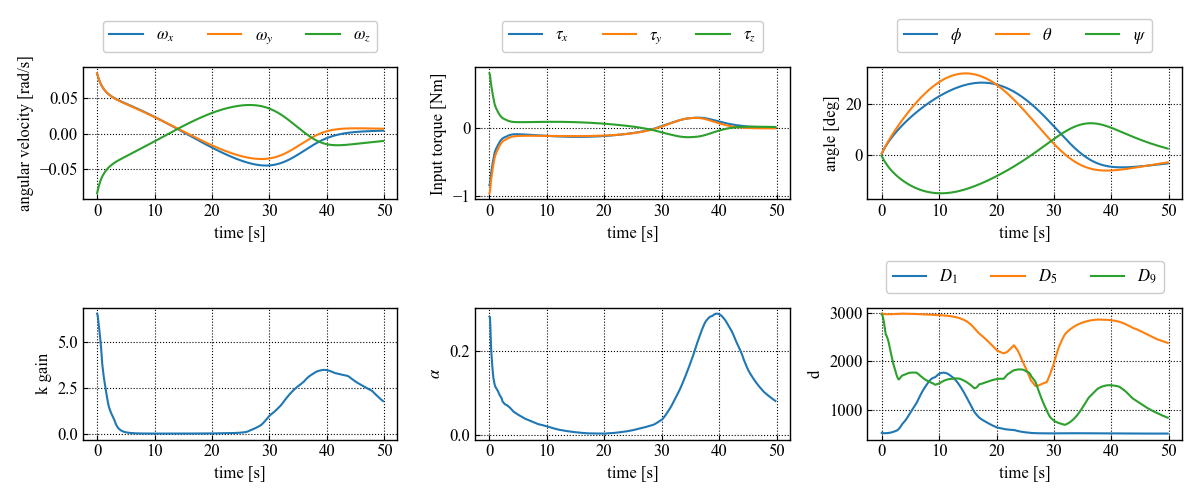
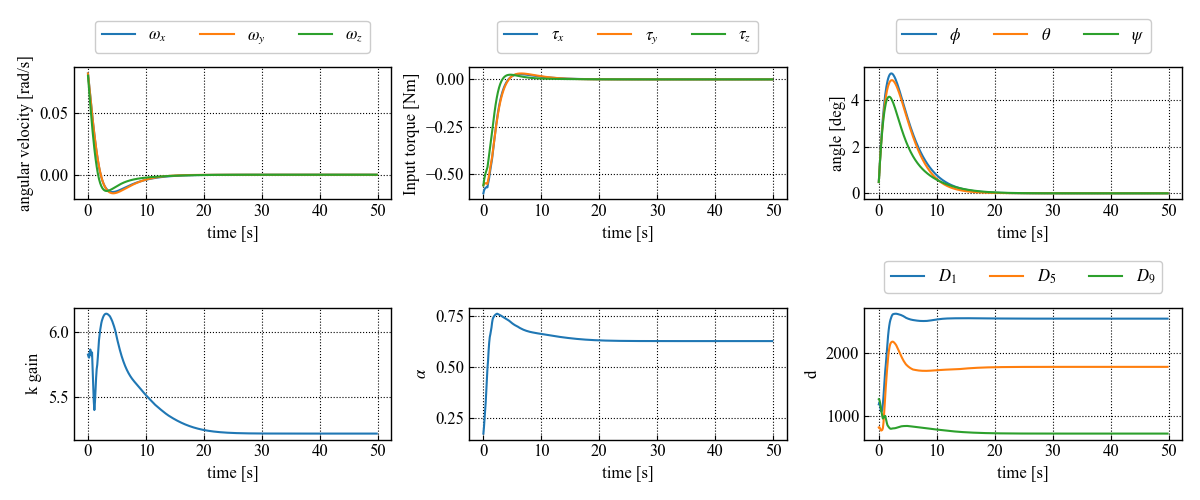
UPDATE: change reward

diff --git a/sac/environment.py b/sac/environment.py
@@ -147,9 +147,9 @@ class SatelliteContinuousEnv(gym.Env):
         
         #報酬パラメータ
         self.q_weight = 50#1*20
-        self.w_weight = 50#1.5*100
-        self.action_weight = 0.25*2#0.25*10
-        self.action_rate_weight = 0.1*8
+        self.w_weight = 0#1.5*100
+        self.action_weight = 0.25*4#0.25*10
+        self.action_rate_weight = 0.1*3
         
         # 初期状態 角度(deg)　角速度(rad/s)
         # Rest to Rest
@@ -313,7 +313,7 @@ class SatelliteContinuousEnv(gym.Env):
         self.inertia = np.array([[2.683, 0.0, 0.0], \
                                 [0.0, 2.683, 0.0], \
                                 [0.0, 0.0, 1.897]])
-        self.multi = 10#np.random.randint(100,self.max_multi*100)/100
+        self.multi = np.random.randint(100,self.max_multi*100)/100
         self.tg_inertia = self.inertia*self.multi
         self.est_th = self.inertia.flatten()*self.multi/25#np.diag(self.inertia)
         # self.est_th = (self.multi*np.diag(self.inertia))/((self.max_multi+1)*np.diag(self.inertia))
